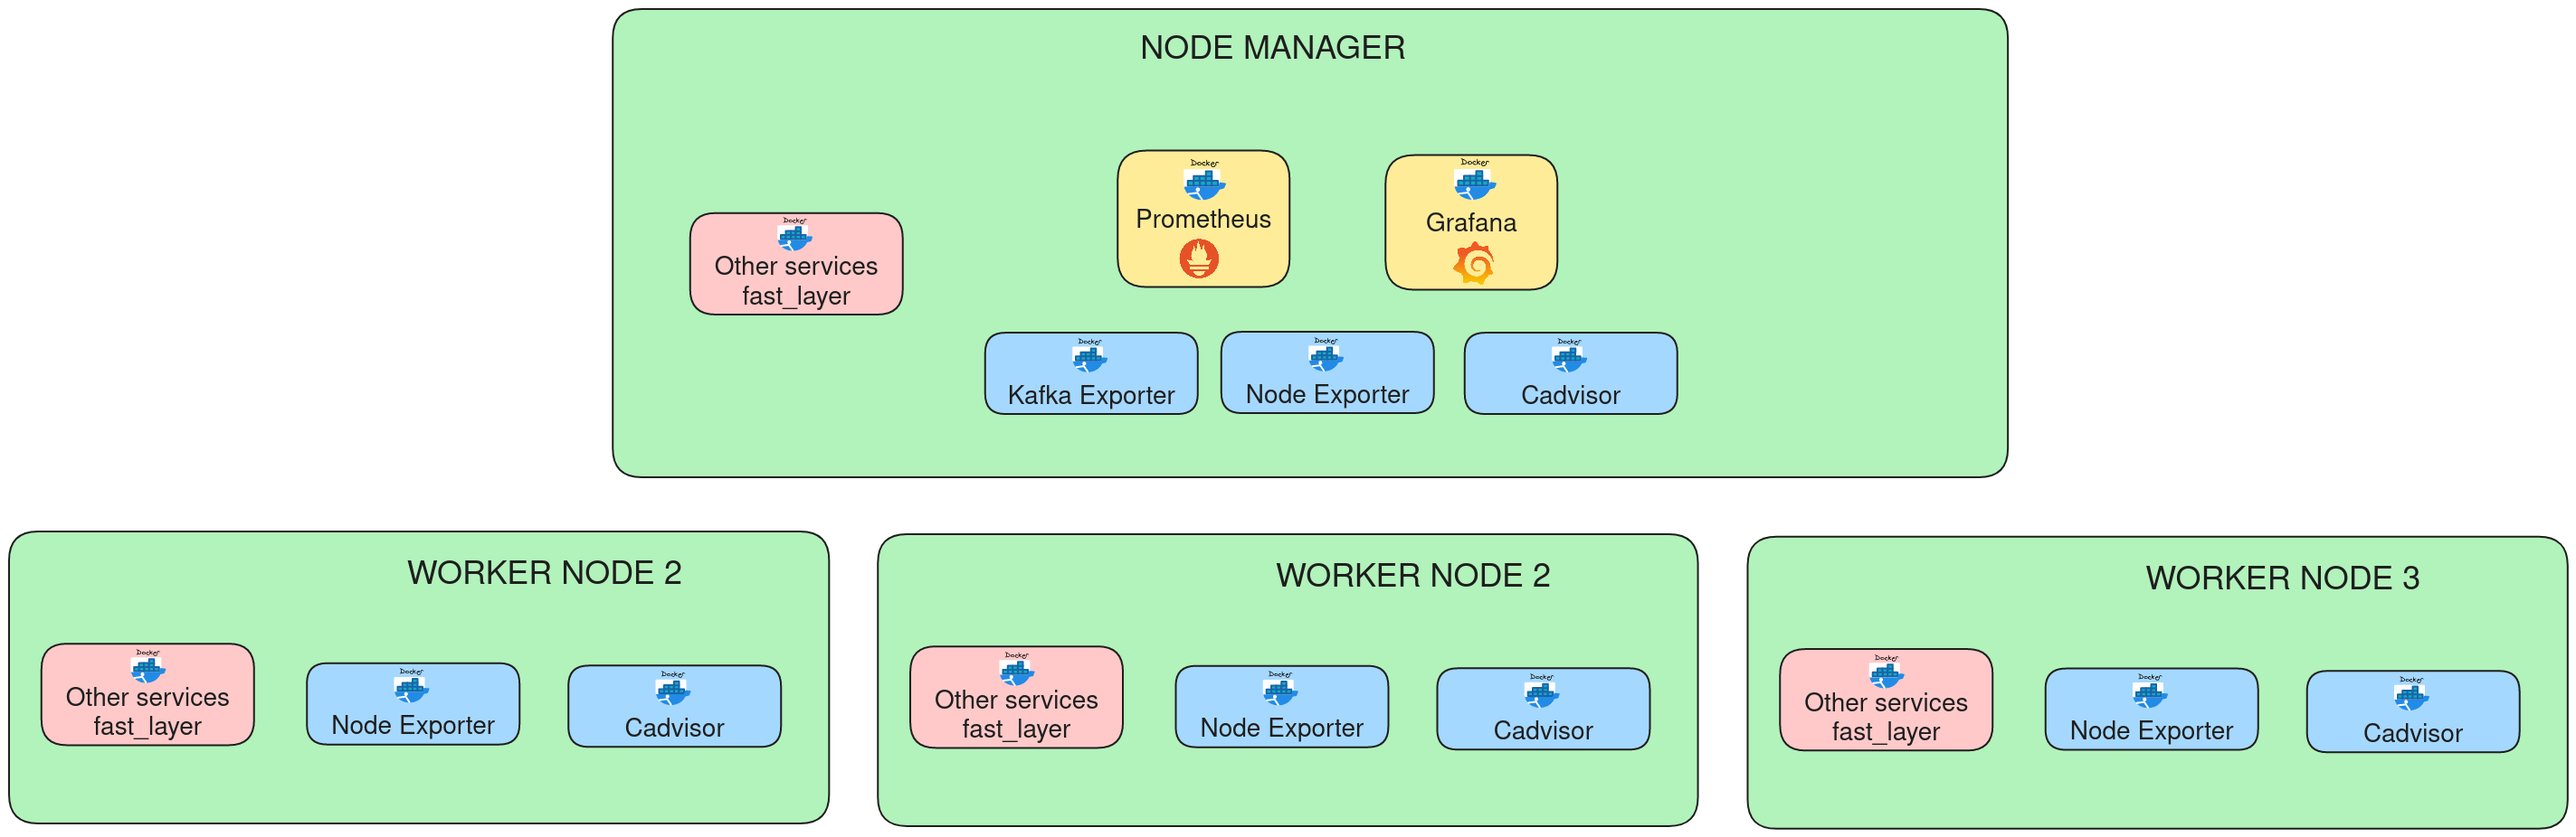
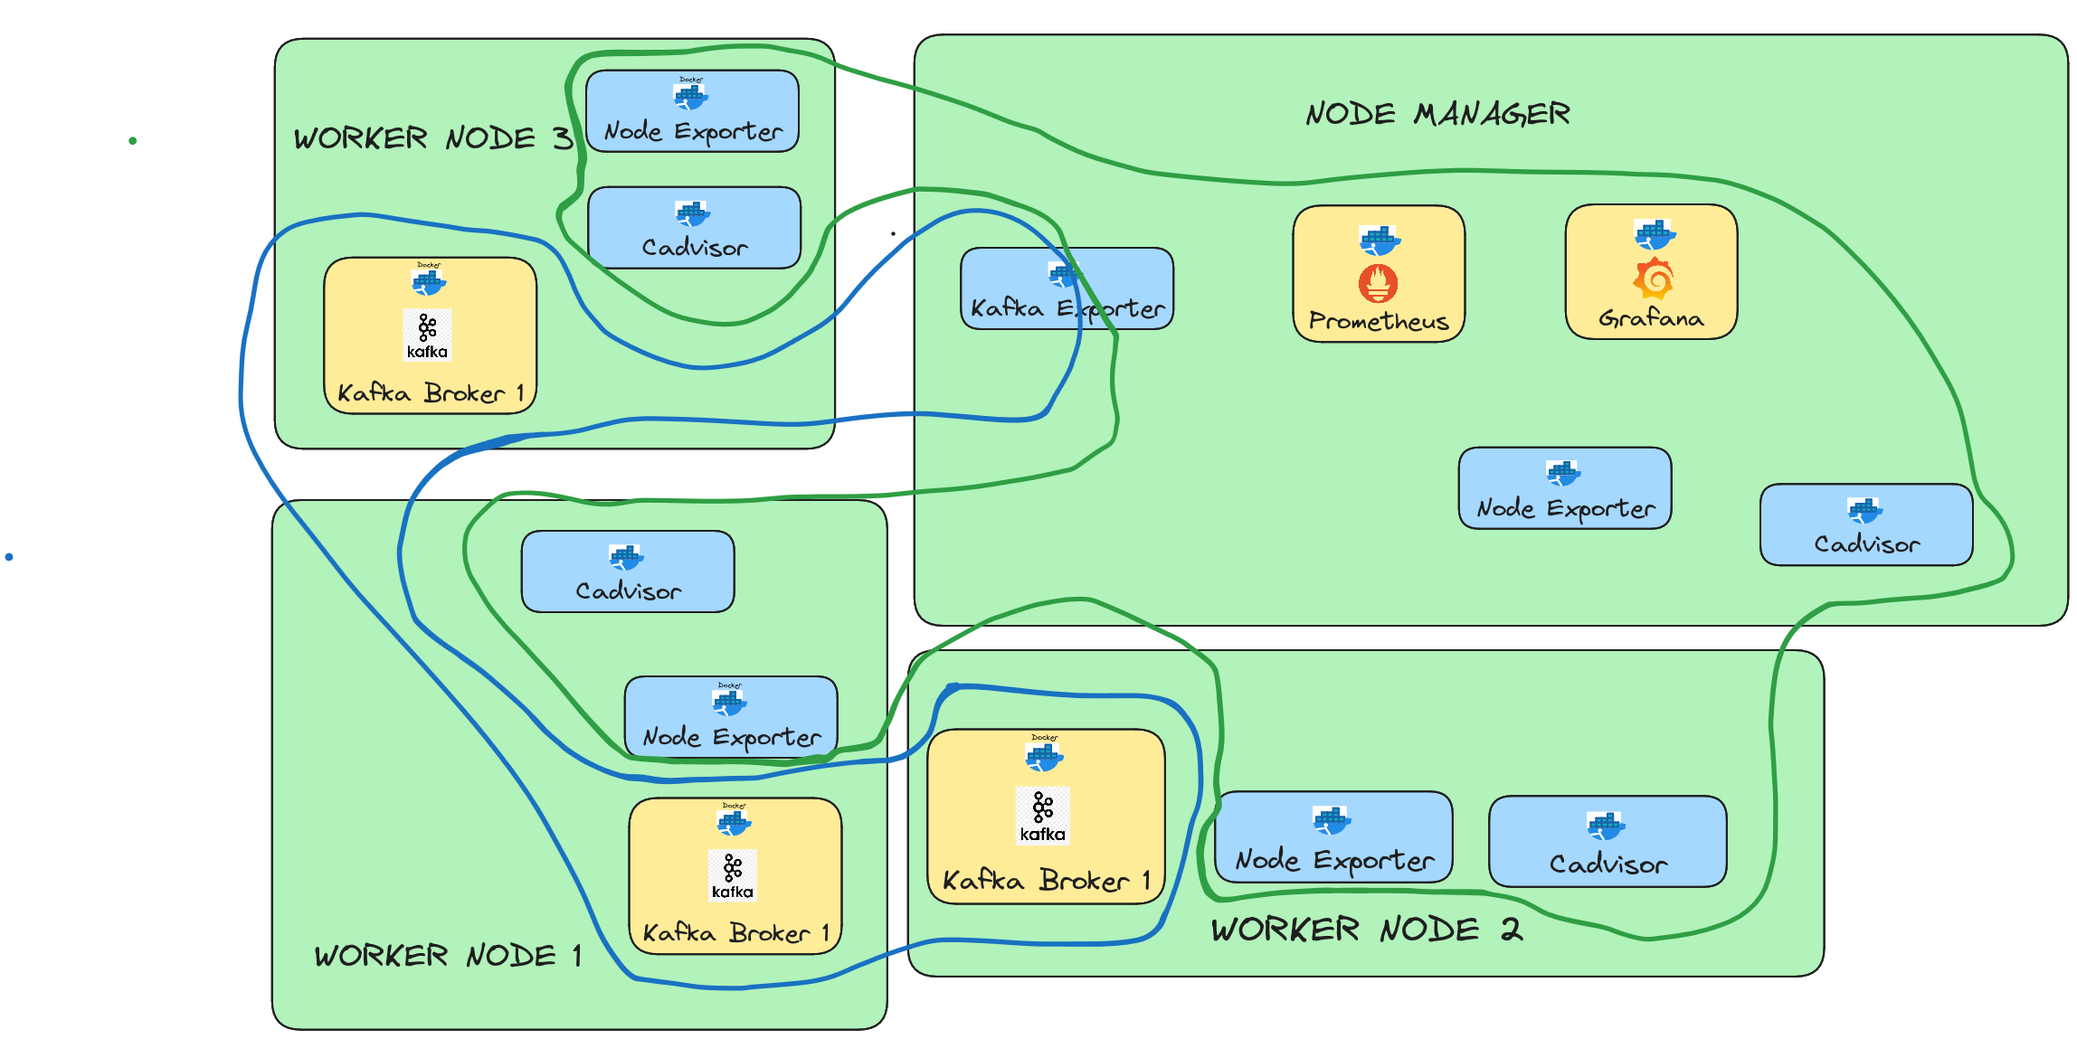
More images

diff --git a/README.md b/README.md
@@ -596,7 +596,7 @@ Para esse trabalho foi montado um cluster Swarm com 4 máquinas, sendo um nó ma
 
 A medida que as camadas são descritas, desenhos representando a distribuição desses serviços em ambiente **single-host** e **multi-host** serão apresentados.
 
-### 4.2.2. Camada de operação
+### 4.2.1. Camada de operação
 
 Na camada de operação estão definidos serviços necessários para realizar telemetria e monitoramento de recursos da infraestrutura utilizados pelo sistema **dm_v3_chain_explorer**. Esses serviços são:
 
@@ -609,27 +609,69 @@ Na camada de operação estão definidos serviços necessários para realizar te
 
 Quando deployados em ambiente de desenvolvimento, os serviços dessa camada são deployados em um único host. Uma ilustração dessa distribuição é mostrada abaixo.
 
-![Operational Layer Single Host](./img/arquitetura/4_compose_ops_layer.png)
+![Operational Layer Single Host](./img/arquitetura/4_ops_services_local.png)
 
-Quando deployado em ambiente de produção, os serviços dessa camada são deployados em múltiplos hosts. Logo, os exporters **cadvisor** e **node exporter** são deployados em cada nó do cluster Swarm. O **kafka exporter** é deployado em um nó específico, o nó manager. Uma ilustração dessa distribuição é mostrada abaixo.
+Na figura acima 2 pontos são importantes:
+
+- As métricas coletadas pelos exporters em suas fontes (server, kafka, docker) nos fluxos das **setas verdes**.
+- Os exporters coletam essas métricas e as enviam para o Prometheus, conforme fluxo das **setas laranjas**.
+- O Grafana consome essas métricas do Prometheus e as exibe em dashboards, conforme fluxo das **setas azuis**.
+
+Quando deployados em ambiente de produção (cluster swarm), os containers são instanciados em múltiplos hosts. Logo, os exporters **cadvisor** e **node exporter** são deployados em cada nó do cluster Swarm, de forma a monitorar o docker daquele nó e as métricas daquele nó.
+
+O **kafka exporter** precisa ser deployado em apenas um nó, o nó, desde que tenha conexão de rede com os brokers do kafka. Uma ilustração dessa distribuição é mostrada abaixo.
 
 #### Observação
 
-Para deploy dos serviços foi feita segregação de redes. Os seviços referentes a camada de operação estão em uma rede chamada **dm_cluster_dev_ops**. Porém, o serviço **Kafka Exporter** está também attachado a rede **dm_cluster_dev_fast** para que possa se comunicar com o Kafka. Contudo, por dificuldades de representação, isso não está contido no desenho abaixo. Mas a lógica de segregação de redes foi mantida, conforme ilustrado na figura acima.
+Para deploy dos serviços foi feita segregação de redes. Os seviços referentes a camada de operação estão em uma rede chamada **dm_cluster_dev_ops**. Porém, o serviço **Kafka Exporter** está também attachado a rede **dm_cluster_dev_fast** para que possa se comunicar com o Kafka. Na figura abaixo o perímetro em azul representa a rede **dm_cluster_dev_fast** e o perímetro em verde a rede **dm_cluster_dev_ops**.
 
 ![Operational Layer Multi Host](./img/arquitetura/5_compose_ops_multinode.png)
 
-### 5.3.1. Camada Fast
+### 4.2.2. Camada Fast
 
 Nessa camada estão definidos os serviços utilizados para ingestão de dados em tempo real e que trabalham em conjunto com os Jobs implementados na camada de aplicação. Os serviços dessa camada são:
 
-- **3 Brokers do Apache Kafka**, usados como backbone para comunicação entre Jobs e como plataforma de armazenamento de dados para fluxos downstream.
-- **Apache Zookeeper** utilizado por cluster de brokers do Kafka.
+- **Brokers do Apache Kafka**, usados como backbone de dados para fluxos de dados downstream e para comunicação entre Jobs;
+- **Apache Zookeeper** utilizado por cluster de brokers do Kafka para gerenciamento de metadados e sincronização entre brokers;
 - **Confluent Control Center**: Serviço com interface gráfica para visualização de tópicos, kafka clusters, consumer groups e cluster de kafka-connect.
-- **Confluent Kafka Connect**: Integra o Apache Kafka às mais diferentes plataformas através do uso de sources e sinks já implementados. Assim é possível replicar os dados entre tópicos do Kafka e Data Lakes, Databases e Data Warehouses do mais diversos tipos.
+- **Confluent Kafka Connect**: Integra o Apache Kafka às mais diferentes plataformas através de conectores do tipo sources e sinks já implementados.
+- **Confluent Schema Registry**: Serviço usado para armazenar e validar schemas de dados em tópicos do Kafka.
 - **ScyllaDB**: Database No-SQL que permite alto throughput de operações de escrita, é por natureza distribuído de forma uniforme e pode ser escalado para atuar de forma global. Usado para update em tabela de consumo de API Keys, para que jobs tenham ciencia de chave e sua utilização em requests no tempo.
 - **Redis**: Banco de dados chave-valor usado para controle de consumo de API Keys em jobs de streaming, de forma a garantir que cada API key seja usada por somente um Job a determinado instante, atuando como um semáforo.
-- **Redis Commander**: Interface grafica para visualização dos dados no redis.
+- **Apache Spark**: Engine de processamendo de dados. Usado para monitorar o uso de API Keys e atualizar a tabela no ScyllaDB.
+
+A abaixo estão representados os serviços das camadas de **operações** e camada **fast** em ambiente **single-host**.
+
+![Fast Layer Multi Host](./img/arquitetura/6_ops_fast_services_local.png)
+
+Os serviços acima deployados em ambiente de produção (cluster Swarm) são distribuídos conforme abaixo.
+
+### 4.2.3.  Camada de aplicação
+
+Nessa camada estão definidas:
+
+- Aplicações escritas em python para interação com blockchains do tipo EVM e plataforma de dados.
+- Aplicação Spark Streaming para monitoramento de consumo de API Keys.
+
+#### Observação sobre aplicações e repositórios desse trabalho
+
+As aplicações desenvolvidas estão encapsuladas em imagens docker para serem instanciadas em containers. Devido à conveniência no gerenciamento de imagens, cada imagem docker produzida para esse trabalho foi organizada em um repositório diferente.
+
+Esses repositórios estão na **organização Dadaia-s-Chain-Analyser** no github. O critério para segregar as funcionalidades em um repositório foi a tecnologia usada, algo que influencia no peso da imagem. E também certo escopo de funcionalidade.
+
+Com diferentes repositórios é possível também definir workflows de CI-CD para build e deploy das imagens usando o **github actions**. Por esse motivo existem 4 repositórios relacionados a esse trabalho.
+
+- [dm_v3_chain_explorer](https://github.com/marcoaureliomenezes/dm_v3_chain_explorer): Repositório central onde estão definidos conjunto de serviços e forma de orquestra-los para alcançar objetivos do sistema.
+
+- [Offchain-watchers](https://github.com/Dadaia-s-Chain-Analyser/offchain-watchers): Repositório composto por rotinas que usam a **biblioteca Web3.py** para ingestão dos dados de transações e blocos de uma rede blockchain.
+
+- [Onchain-watchers](https://github.com/Dadaia-s-Chain-Analyser/onchain-watchers): Repositório composto por rotinas que usam **framework Brownie** para interação com contratos inteligentes e obtenção de estados dos mesmos, com o objetivo de ingestá-los no sistema.
+
+- [Onchain-actors](https://github.com/Dadaia-s-Chain-Analyser/onchain-actors): Repositório composto por rotinas que usam a **framework Brownie** para realizar transações em blockchains. São a ponta da linha do sistema e estão habilitados a realizar swaps entre outras interações em contratos inteligentes específicos.
+
+#### Observação sobre as aplicações
+
+As aplicações desenvolvidas nesse trabalho são construídas em python e encapsuladas em imagens docker. Dessa forma são portáveis e podem ser instanciadas em qualquer ambiente com a engine do docker instalada. Assim, em caso de necessidade de deploy em ambiente de cloud, as imagens podem ser usadas para instanciar containers em cloud, usando serviços de orquestração de containers como **ECS**, **EKS**, **AKS** ou **GKE**.
 
 ### 5.3.2. Camada Batch
 
@@ -687,32 +729,7 @@ Essas tecnologias são amplamente usadas em ecossistemas de plataformas de dados
 - O **Hadoop HDFS** pode ser substituído por **Amazon S3**, **Azure ADLS** e **Google Cloud Storage**. 
 - O **Apache Spark** pode ser substituído por um spark gerenciado dna plataforma **Databricks** ou por outros recursos que usam por debaixo dos panos o Spark, tais como **Synapse Analytics**, **Google Dataproc**, entre outros.
 
-### 5.3.3.  Camada de aplicação
 
-Nessa camada estão definidas:
-
-- Aplicações escritas em python para interação com blockchains do tipo EVM e plataforma de dados.
-- Aplicação Spark Streaming para monitoramento de consumo de API Keys.
-
-#### Observação sobre aplicações e repositórios desse trabalho
-
-As aplicações desenvolvidas estão encapsuladas em imagens docker para serem instanciadas em containers. Devido à conveniência no gerenciamento de imagens, cada imagem docker produzida para esse trabalho foi organizada em um repositório diferente.
-
-Esses repositórios estão na **organização Dadaia-s-Chain-Analyser** no github. O critério para segregar as funcionalidades em um repositório foi a tecnologia usada, algo que influencia no peso da imagem. E também certo escopo de funcionalidade.
-
-Com diferentes repositórios é possível também definir workflows de CI-CD para build e deploy das imagens usando o **github actions**. Por esse motivo existem 4 repositórios relacionados a esse trabalho.
-
-- [dm_v3_chain_explorer](https://github.com/marcoaureliomenezes/dm_v3_chain_explorer): Repositório central onde estão definidos conjunto de serviços e forma de orquestra-los para alcançar objetivos do sistema.
-
-- [Offchain-watchers](https://github.com/Dadaia-s-Chain-Analyser/offchain-watchers): Repositório composto por rotinas que usam a **biblioteca Web3.py** para ingestão dos dados de transações e blocos de uma rede blockchain.
-
-- [Onchain-watchers](https://github.com/Dadaia-s-Chain-Analyser/onchain-watchers): Repositório composto por rotinas que usam **framework Brownie** para interação com contratos inteligentes e obtenção de estados dos mesmos, com o objetivo de ingestá-los no sistema.
-
-- [Onchain-actors](https://github.com/Dadaia-s-Chain-Analyser/onchain-actors): Repositório composto por rotinas que usam a **framework Brownie** para realizar transações em blockchains. São a ponta da linha do sistema e estão habilitados a realizar swaps entre outras interações em contratos inteligentes específicos.
-
-#### Observação sobre as aplicações
-
-As aplicações desenvolvidas nesse trabalho são construídas em python e encapsuladas em imagens docker. Dessa forma são portáveis e podem ser instanciadas em qualquer ambiente com a engine do docker instalada. Assim, em caso de necessidade de deploy em ambiente de cloud, as imagens podem ser usadas para instanciar containers em cloud, usando serviços de orquestração de containers como **ECS**, **EKS**, **AKS** ou **GKE**.
 
 
 
